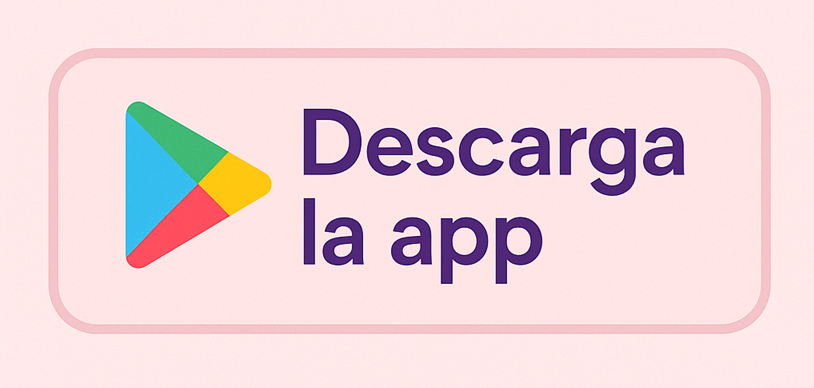
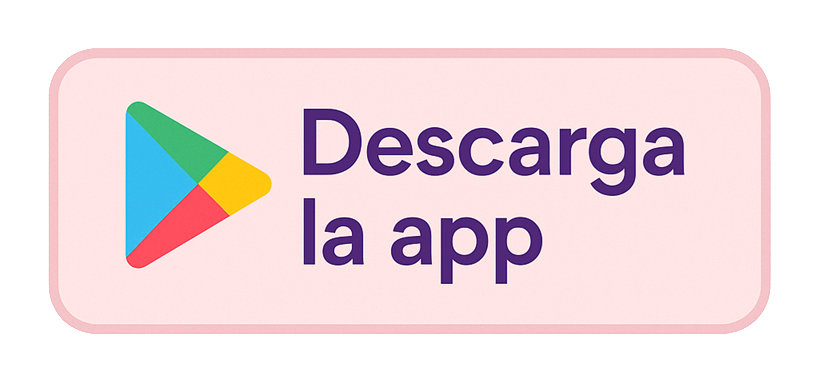
Correcciones de espaciado en footer.

Changed region(s): [[0.0307, 0.2165, 0.0614, 0.2474]]

diff --git a/AnimatiWeb Angular/AnimatiWeb/src/app/shared/footer/footer.component.css b/AnimatiWeb Angular/AnimatiWeb/src/app/shared/footer/footer.component.css
@@ -22,7 +22,7 @@ body {
 .footer {
     background-color: hsl(0, 50%, 89%);
     color: #4A0A66; /* Mejor contraste */
-    padding: 10px 0;
+    padding: 50px 0 10px 0;
     position: relative;
     bottom: 0px;
     width: 100%;
@@ -97,25 +97,55 @@ body {
     outline: 2px solid #641881;
 }
 
-/* Imagen Play Store */
-.playstore-badge {
-    width: 180px;
-    height: auto;
-    margin-top: 10px;
-    transition: transform 0.3s;
+/* Columna 3 */
+.playstore-column {
+  display: flex;
+  justify-content: flex-end;
+  align-items: flex-start;
+  padding-right: 20px;
+  flex: 1;
+  margin-top: 10px; /* Igual que otras columnas */
 }
 
+/* Botón */
 .playstore-button {
   background: none;
   border: none;
   padding: 0;
   cursor: pointer;
+  text-decoration: none;
+  display: inline-block;
 }
 
-.playstore-badge:hover,
-.playstore-badge:focus {
-    transform: scale(1.05);
-    outline: 2px solid rgba(155, 7, 241, 0.781);
+.playstore-button:focus {
+  outline: 2px solid rgba(155, 7, 241, 0.781);
+  outline-offset: 4px;
+  border-radius: 6px;
+}
+
+/* Imagen del botón Play Store */
+.playstore-badge {
+  width: 200px;
+  height: auto;
+  transition: transform 0.3s;
+}
+
+/* Hover visual */
+.playstore-badge:hover {
+  transform: scale(1.05);
+}
+
+/* Responsividad */
+@media (max-width: 600px) {
+  .playstore-column {
+    justify-content: center;
+    padding-right: 0;
+    margin-top: 15px;
+  }
+
+  .playstore-badge {
+    width: 160px; /* Reduce en pantallas pequeñas */
+  }
 }
 
 .footer-legend {

diff --git a/AnimatiWeb Angular/AnimatiWeb/src/app/shared/footer/footer.component.html b/AnimatiWeb Angular/AnimatiWeb/src/app/shared/footer/footer.component.html
@@ -1,6 +1,6 @@
-<footer class="footer" role="contentinfo">
-  <div class="footer-separator"></div> <!-- Línea violeta superior -->
+<div class="footer-separator"></div>
 
+<footer class="footer" role="contentinfo">
   <div class="footer-container">
     <!-- Columna 1 -->
     <div class="footer-column">
@@ -34,13 +34,14 @@
     </div>
 
     <!-- Columna 3 -->
-    <div class="footer-column">
+    <div class="footer-column playstore-column">
       <button class="playstore-button"
               (click)="openPromoModal()"
-              aria-label="Abrir información sobre la app en Play Store">
+              aria-label="Abrir información sobre la app en Play Store"
+              title="Descargá nuestra app en Play Store">
         <img src="assets/img/playstore-badge.png"
-             alt=""
-             class="playstore-badge" />
+            alt="Botón para acceder a la app en Play Store"
+            class="playstore-badge" />
       </button>
     </div>
   </div>
